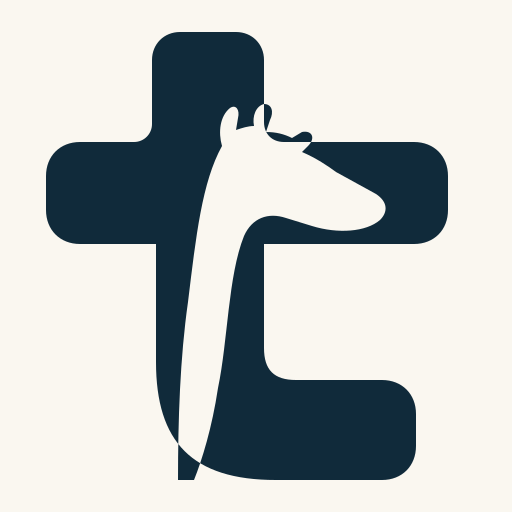
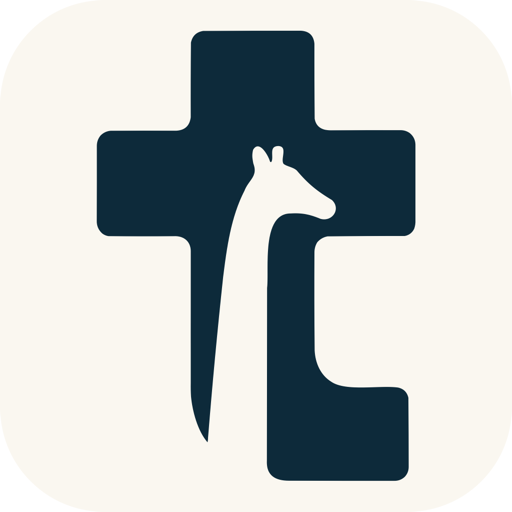
Finalize Twiga brand assets

Changed region(s): [[0.0625, 0.0312, 0.875, 0.9375]]

diff --git a/components/logos/twiga-logo.tsx b/components/logos/twiga-logo.tsx
@@ -1,7 +1,9 @@
 import type { SVGProps } from 'react';
 
 export const TWIGA_MARK_PATH =
-  'M90 16C82 16 76 22 76 30V62C76 67 72 71 67 71H40C30 71 23 78 23 88V105C23 115 30 122 40 122H78V181C78 221 96 240 138 240H191C201 240 208 233 208 223V207C208 197 201 190 191 190H148C137 190 132 185 132 174V122H207C217 122 224 115 224 105V88C224 78 217 71 207 71H142C136 71 132 67 132 61V30C132 22 126 16 118 16H90Z M89 240C89 210 90 179 94 151C98 118 101 91 111 73C109 66 110 58 115 54C118 52 120 55 119 59L118 65C121 64 124 63 127 63C126 58 128 53 132 52C136 52 137 56 135 60L133 66C138 66 142 67 146 69L151 66C156 65 158 69 154 73L151 76C158 79 164 83 168 86L188 97C194 101 194 106 190 110C183 116 169 117 156 113L143 109C134 106 126 109 122 118C114 138 114 170 109 194C106 214 101 230 97 240H89Z';
+  'M 104.07,64.18 c 26.14,-0.14 52.29,-0.19 78.44,-0.17 c 6.67,0.34 10.32,3.84 10.93,10.49 c -0.04,20.06 0.02,40.13 0.2,60.19 c 0.83,4.8 3.62,7.77 8.38,8.9 c 1.48,0.27 2.97,0.42 4.48,0.43 c 18.67,-0.12 37.34,-0.15 56,-0.11 c 2.75,-0.04 5.23,0.73 7.47,2.29 c 2.98,2.4 4.52,5.51 4.63,9.34 c -0.02,20.32 -0.02,40.65 -0.01,60.97 c 0.09,2.28 -0.25,4.49 -1.01,6.63 c -1.57,3.18 -4.09,5.11 -7.58,5.79 c -20.68,-0.03 -41.35,0.07 -62.01,0.28 c -3.32,0.62 -6.07,2.2 -8.26,4.75 c -1.45,2.37 -2.2,4.94 -2.26,7.72 c -0.16,26.44 -0.11,52.87 0.16,79.3 c 0.52,9.94 4.63,19.66 13.34,25.04 c 11.79,8.12 39.39,2.59 53.71,4.68 c 4.48,1.01 7.23,3.76 8.25,8.24 c 0.15,18.52 0.23,37.04 0.24,55.57 c -0.03,3.04 -1.08,5.68 -3.16,7.91 c -2.4,2.22 -5.25,3.3 -8.55,3.22 c -28.16,0.01 -56.32,-0.02 -84.48,-0.1 c -10.85,-0.03 -18.25,-4.05 -17.73,-16.04 c 0.05,-46.33 0.11,-92.67 0.19,-139 c 1.73,-14.87 -4.83,-59.92 19.06,-59.69 c 9.39,-0.56 15.49,0.88 23.96,4.37 c 9.65,2.47 16.46,-8.28 9.06,-15.15 c -11.99,-7.19 -19.13,-12.95 -28.21,-23.7 c -3.03,-2.84 -8.05,-3.19 -10.67,-5.39 c -2.68,-3.93 3.71,-13.92 -4.14,-14.31 c -8.06,0.15 -3.41,8.41 -5.6,12.74 c -0.52,0.31 -0.92,0.17 -1.19,-0.42 c -1.2,-4.38 -8.52,-17.73 -13.52,-9.34 c -0.76,2.73 -0.87,5.5 -0.33,8.3 c 0.14,0.97 0.31,1.94 0.51,2.9 c 3.94,10.3 -3.85,13.02 -7.19,21.85 c -10.87,21.11 -14.11,45.57 -17.04,68.84 c -4.65,43.12 -8.71,86.29 -12.17,129.51 c 0.01,1.26 -0.14,2.48 -0.42,3.66 c -7.88,-8.87 -12.22,-25.17 -13.25,-36.77 c -0.23,-3.62 -0.3,-7.24 -0.22,-10.87 c -0.01,-7.69 0,-15.37 0,-23.06 c -0.03,-10.65 -0.03,-21.29 0,-31.94 c -0.01,-17.02 0,-34.04 0.02,-51.07 c -0.16,-7.95 -5.89,-12.3 -13.6,-11.89 c -17.5,0.14 -35.01,0.12 -52.51,-0.04 c -1.84,-0.28 -3.51,-0.99 -4.99,-2.12 c -3.1,-2.76 -4.58,-6.23 -4.43,-10.41 c 0.08,-20 0.1,-40 0.06,-60 c 0.01,-3.11 1,-5.87 2.96,-8.27 c 2.22,-2.27 4.92,-3.56 8.09,-3.85 c 17.61,-0.09 35.21,-0.1 52.82,-0.04 c 6.88,-0.4 10.73,-4.01 11.56,-10.83 c -0.08,-20 -0.02,-39.98 0.18,-59.97 c 1.12,-5.37 4.4,-8.49 9.83,-9.36 Z';
+
+export const TWIGA_MARK_VIEWBOX = '16 62 261 366';
 
 type TwigaMarkProps = SVGProps<SVGSVGElement> & {
   title?: string;
@@ -10,7 +12,7 @@ type TwigaMarkProps = SVGProps<SVGSVGElement> & {
 export function TwigaMark({ title, className, ...props }: TwigaMarkProps) {
   return (
     <svg
-      viewBox="0 0 256 256"
+      viewBox={TWIGA_MARK_VIEWBOX}
       xmlns="http://www.w3.org/2000/svg"
       className={className}
       role={title ? 'img' : undefined}
@@ -26,15 +28,17 @@ export function TwigaMark({ title, className, ...props }: TwigaMarkProps) {
 export function TwigaLogo({ title = 'Twiga', className, ...props }: TwigaMarkProps) {
   return (
     <svg
-      viewBox="0 0 850 256"
+      viewBox="0 0 760 256"
       xmlns="http://www.w3.org/2000/svg"
       className={className}
       role="img"
       aria-label={title}
       {...props}
     >
-      <path d={TWIGA_MARK_PATH} fill="currentColor" fillRule="evenodd" clipRule="evenodd" />
-      <g transform="translate(268 190) scale(.22 -.22)" fill="currentColor">
+      <svg x="0" y="8" width="171" height="240" viewBox={TWIGA_MARK_VIEWBOX} aria-hidden="true">
+        <path d={TWIGA_MARK_PATH} fill="currentColor" />
+      </svg>
+      <g transform="translate(190 190) scale(.22 -.22)" fill="currentColor">
         <path d="M274 0Q202 0 167.5 33Q133 66 133 136L133 456L55 456L55 530L133 530L133 654L217 654L217 530L358 530L358 456L217 456L217 138Q217 102 233 88Q249 74 282 74L358 74L358 0Z" />
         <path
           transform="translate(382)"

diff --git a/docs/BRAND.md b/docs/BRAND.md
@@ -17,7 +17,7 @@ The symbol should read as a bold `t` at small sizes. The giraffe is a second-loo
 
 | Role        | Value     | Use                                        |
 | ----------- | --------- | ------------------------------------------ |
-| Twiga Ink   | `#102A3A` | Logo, primary type, high-emphasis controls |
+| Twiga Ink   | `#0D2A3A` | Logo, primary type, high-emphasis controls |
 | Warm Canvas | `#FAF7F0` | Light-theme icon and brand backgrounds     |
 
 Sunlit amber and restrained teal may be developed as supporting interface colors, but they are not part of the logo itself at this stage.
@@ -33,8 +33,11 @@ Sunlit amber and restrained teal may be developed as supporting interface colors
 
 - `/public/brand/twiga-mark.svg` — symbol only, transparent background
 - `/public/brand/twiga-wordmark.svg` — approved horizontal symbol and outlined wordmark
+- `/public/brand/twiga-maskable.svg` — safe-zone source for the installable-app icon
 - `/components/logos/twiga-logo.tsx` — reusable React mark and horizontal logo components
 - `/app/favicon.svg`, `/app/favicon.ico`, `/app/icon.png`, `/app/apple-icon.png` — browser and device icons
 - `/public/icon-maskable.png` — installable-app maskable icon
 
 Use the horizontal logo when space permits and the symbol alone for favicons, compact controls, avatars, and collapsed navigation. Do not stretch, rotate, outline, add effects to, or place other artwork inside the mark.
+
+The approved mark uses the giraffe placement from the corrected July 2026 master: the head sits in the crossbar opening and the neck forms the negative-space stem. Preserve that geometry. The production SVGs use a transparent canvas, a tight `viewBox` and one silhouette path; do not reintroduce the cream background, trace highlights or fixed pixel dimensions from the source export.
